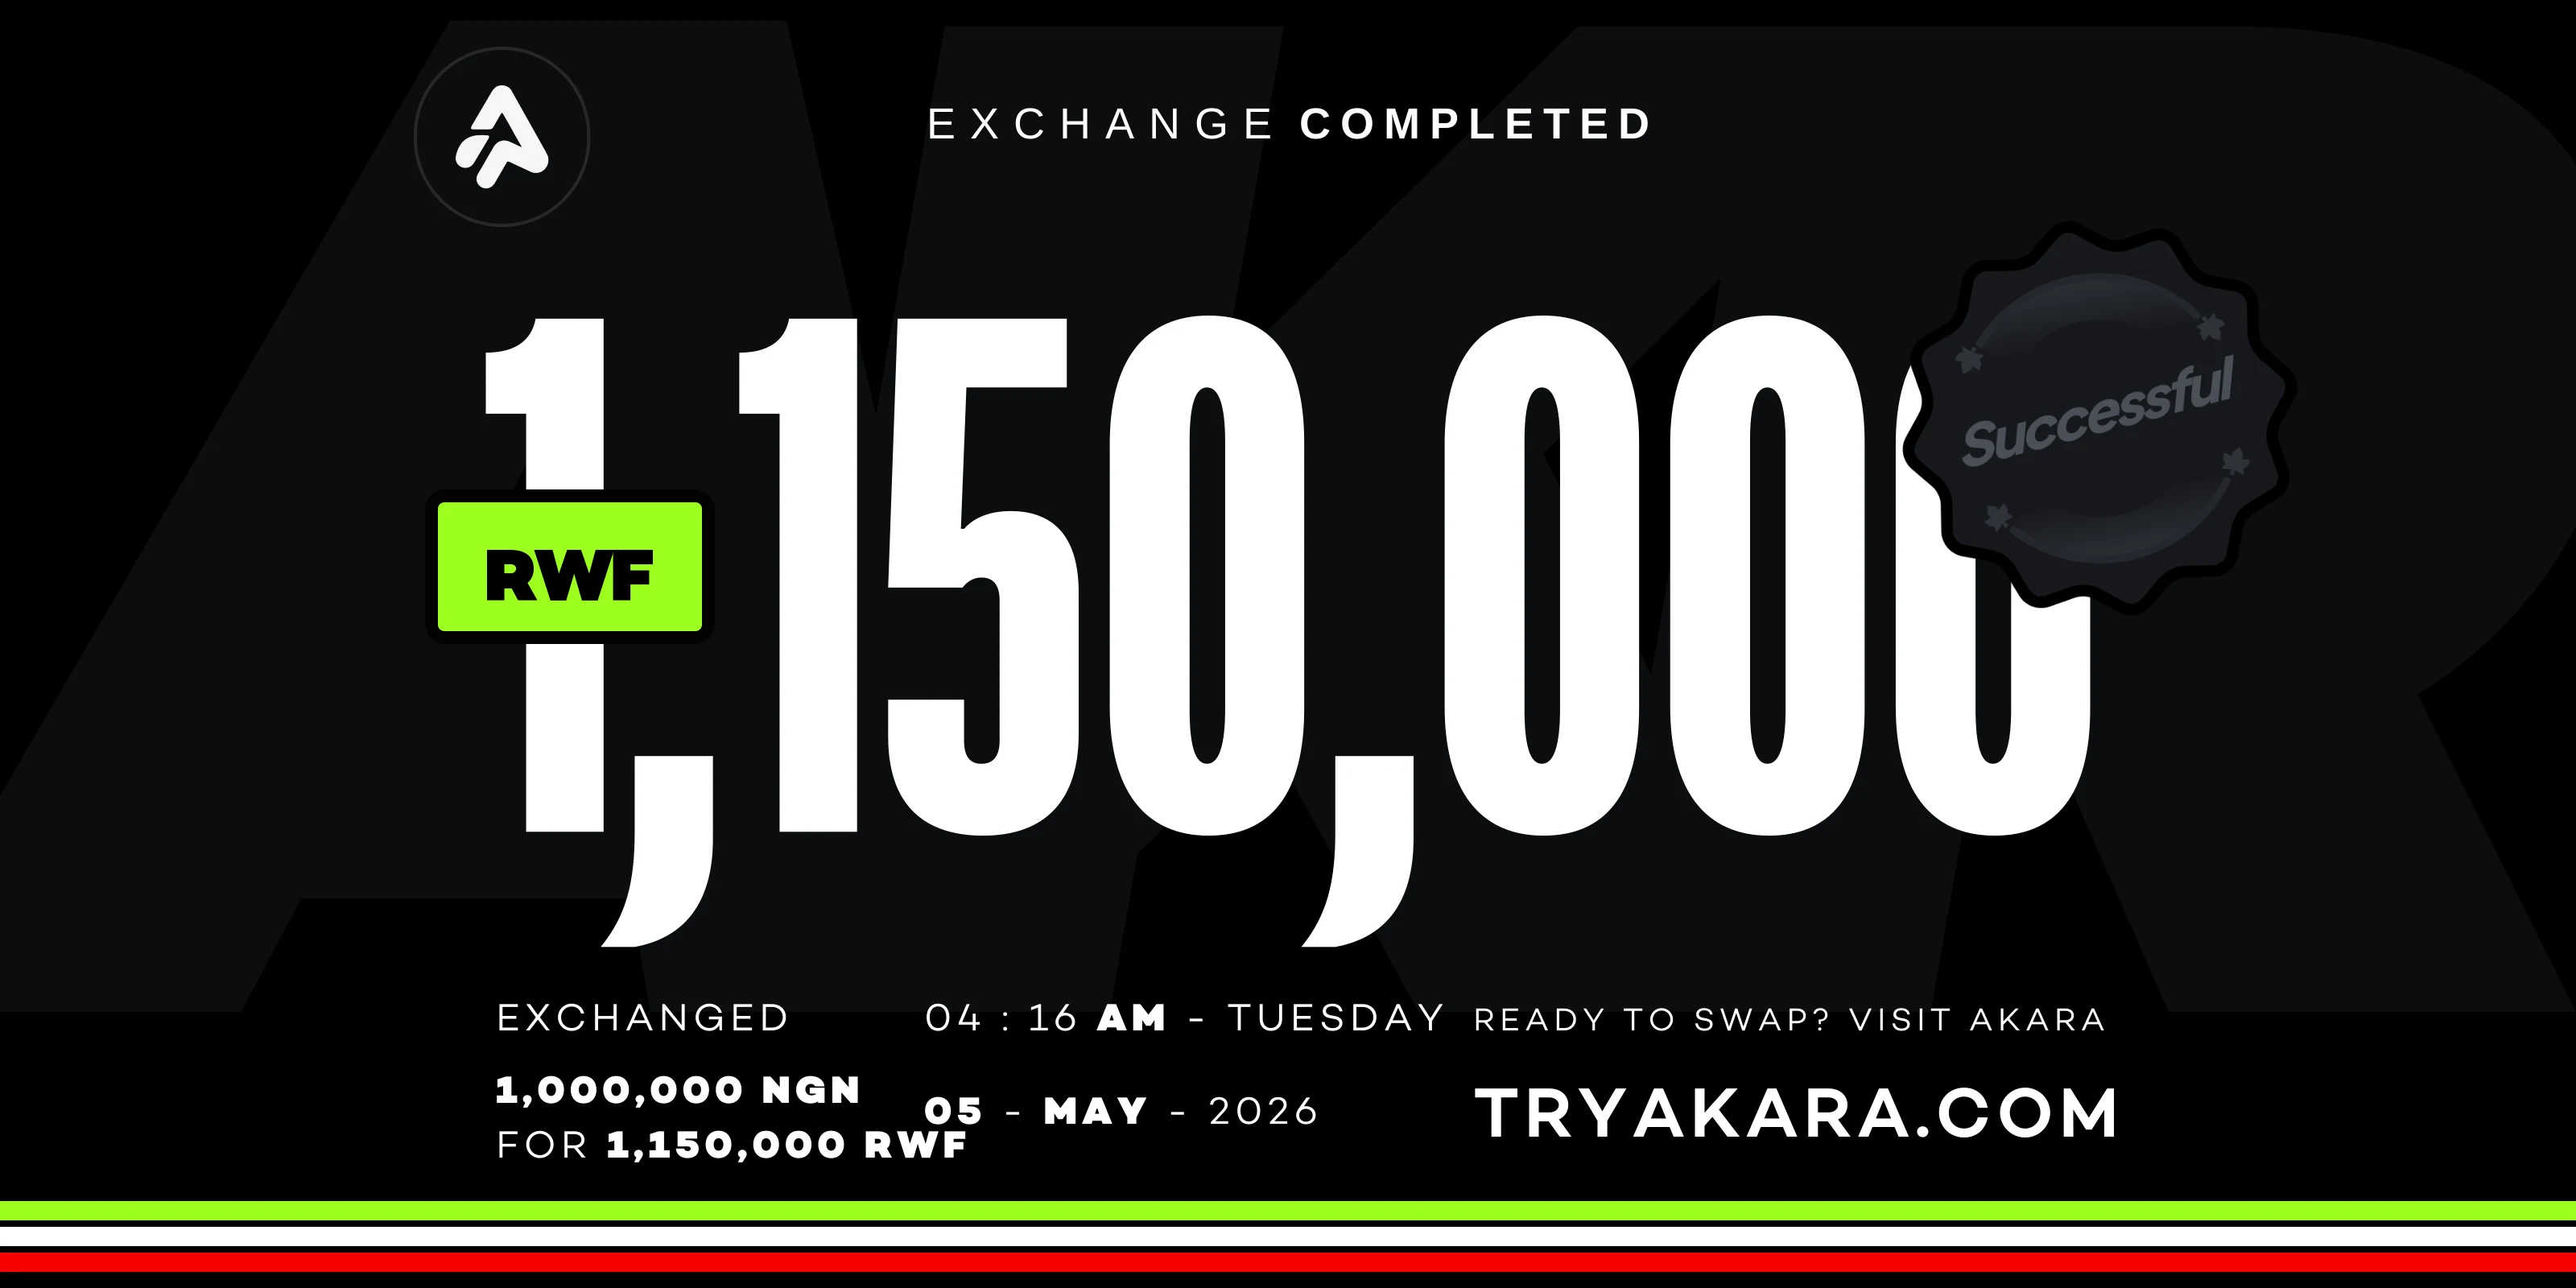
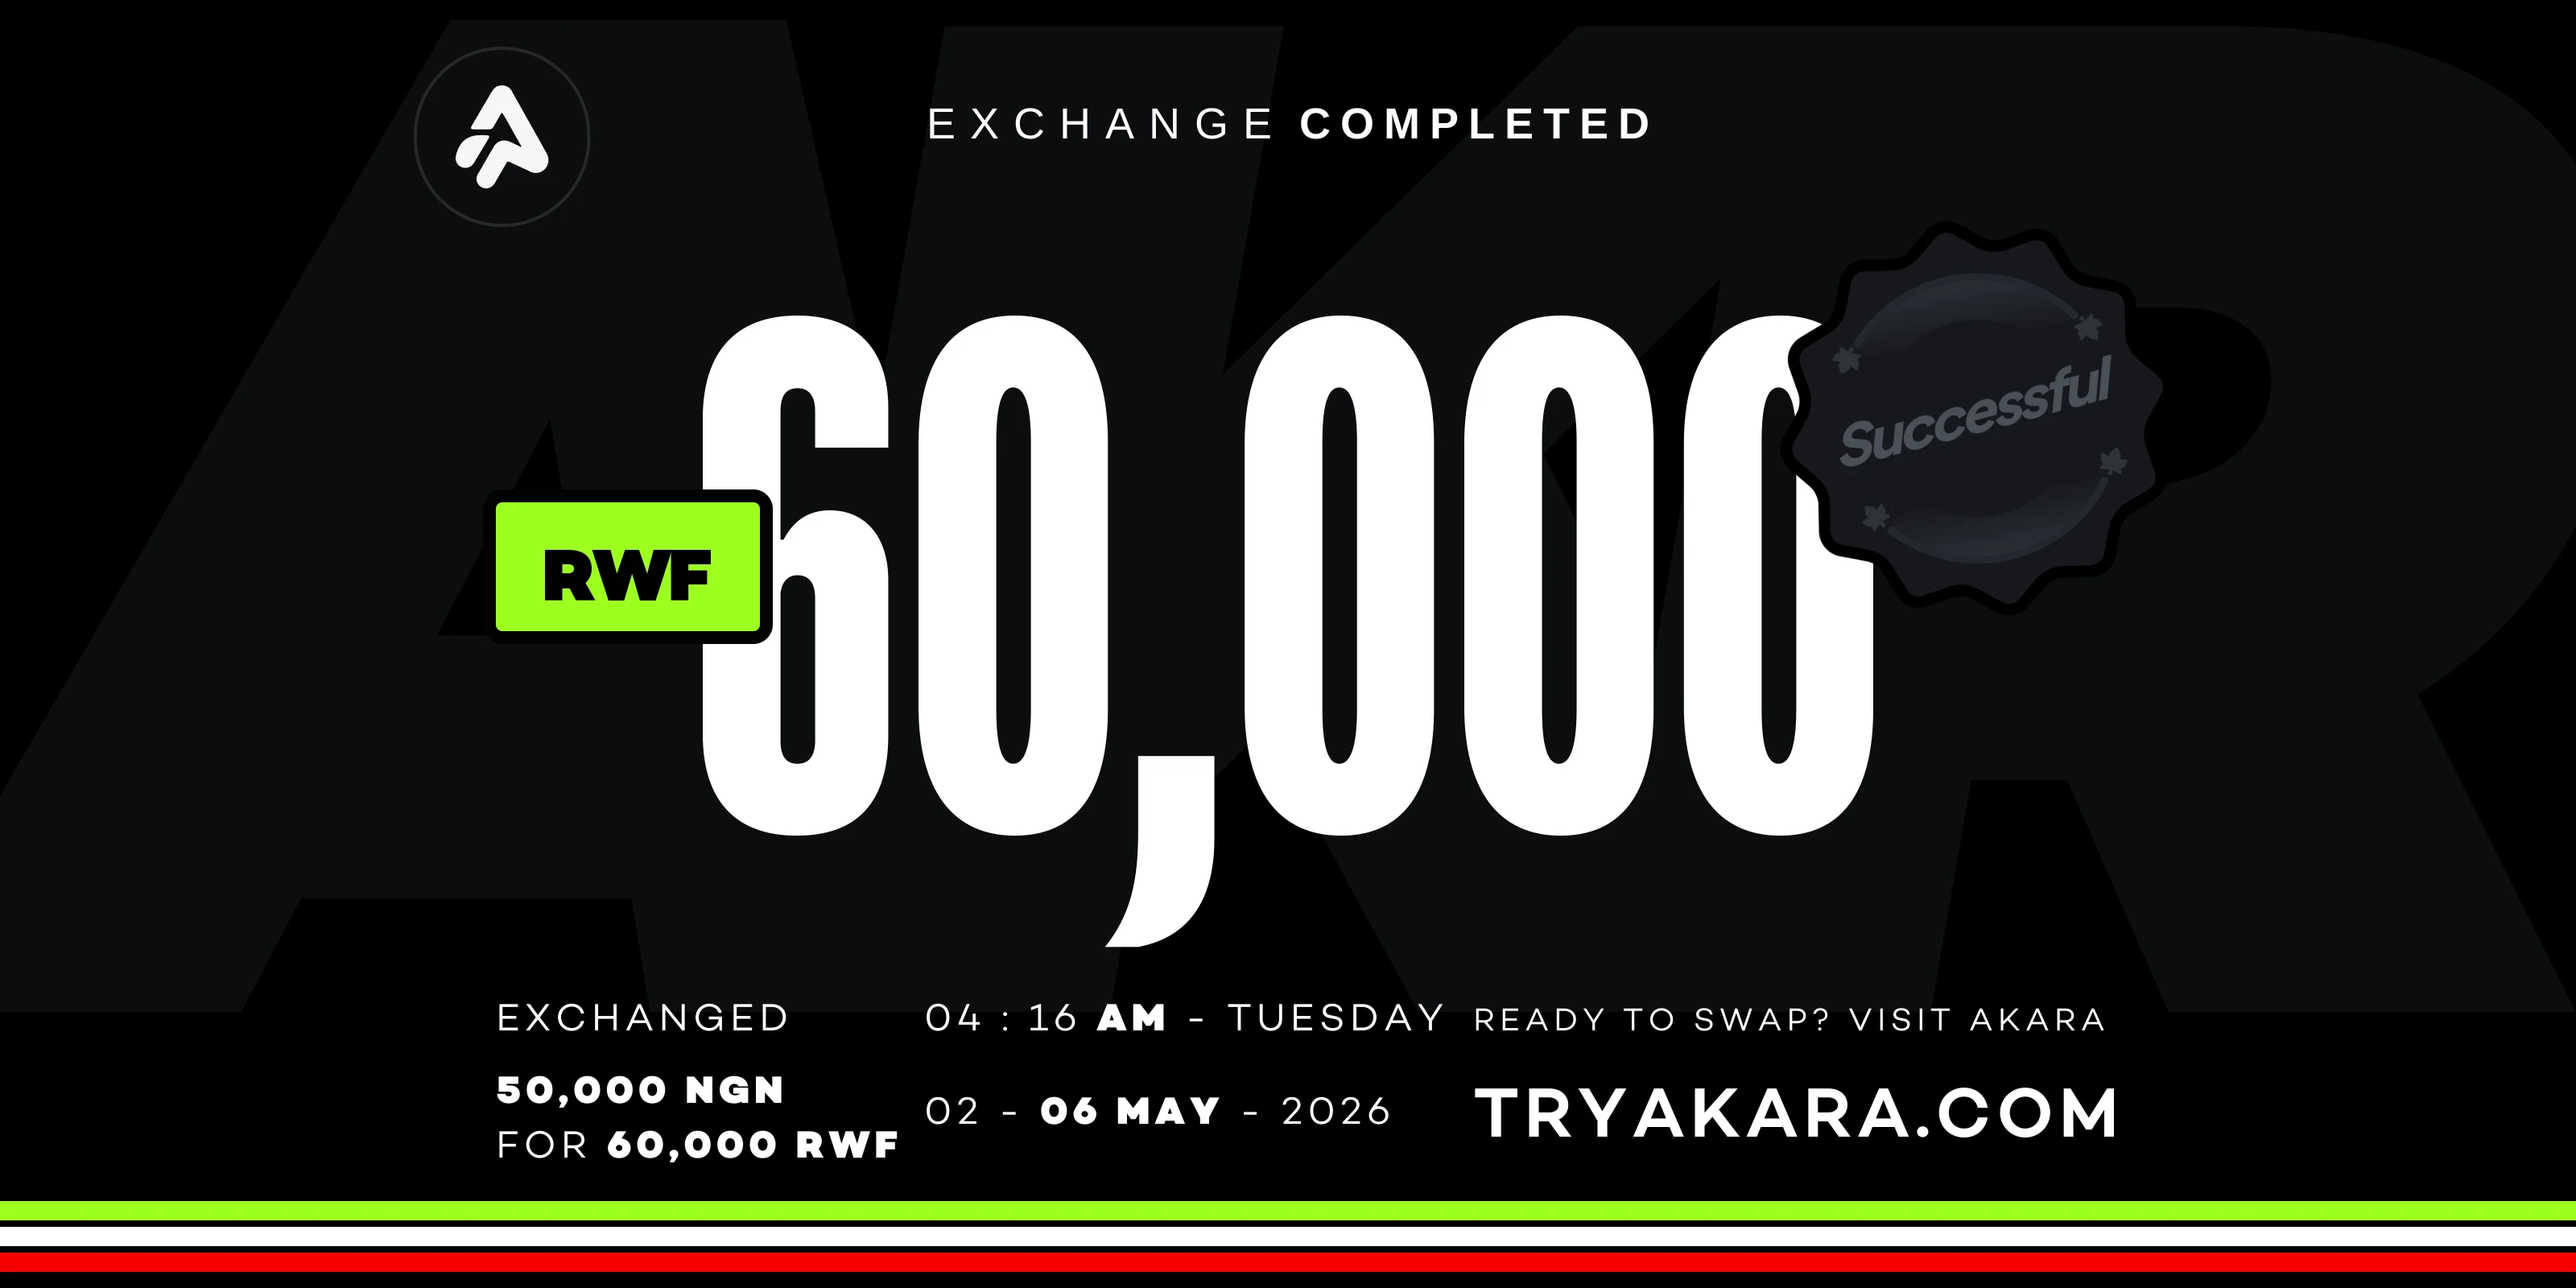
fix: match the canonical exchange-completed card exactly
Regenerated the completion card to mirror the original asset field
for field: 60,000 RWF received for 50,000 NGN, 04:16 AM Tuesday, and
the 02 - 06 MAY 2026 date-range row with its original weight pattern.
Rendered through the product's own template (temporarily patched for
the date-range row, then restored untouched). Alt text updated.

Claude-Session: https://claude.ai/code/session_01EnbyLB5FFD523WnwYyHBRS

Changed region(s): [[0.1562, 0.1875, 0.9062, 0.75], [0.1875, 0.8125, 0.5312, 0.9062]]

diff --git a/website/components/home/HowItWorks.tsx b/website/components/home/HowItWorks.tsx
@@ -318,7 +318,7 @@ export function HowItWorks() {
           >
             <CardShot
               src="/cards/exchange-completed.webp"
-              alt="Akara exchange completed card: 1,150,000 RWF received, exchanged 1,000,000 NGN for 1,150,000 RWF, marked successful"
+              alt="Akara exchange completed card: 60,000 RWF received, exchanged 50,000 NGN for 60,000 RWF, marked successful"
             />
           </StepCard>
         </div>